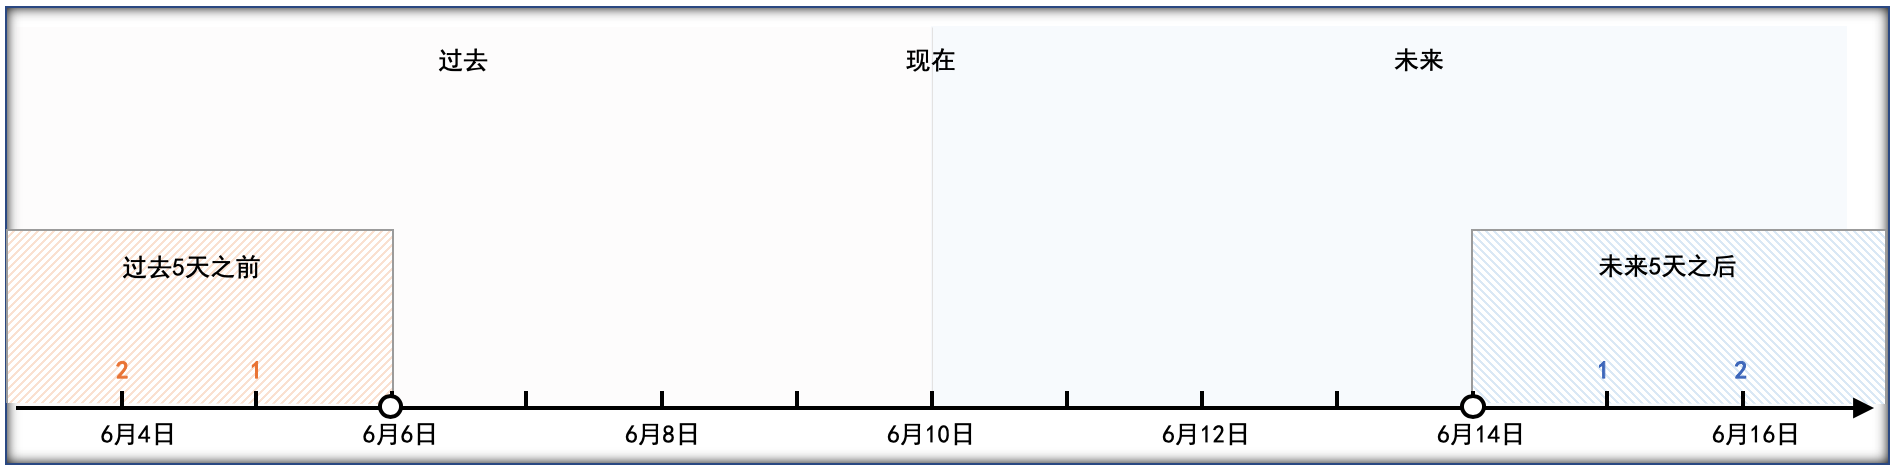
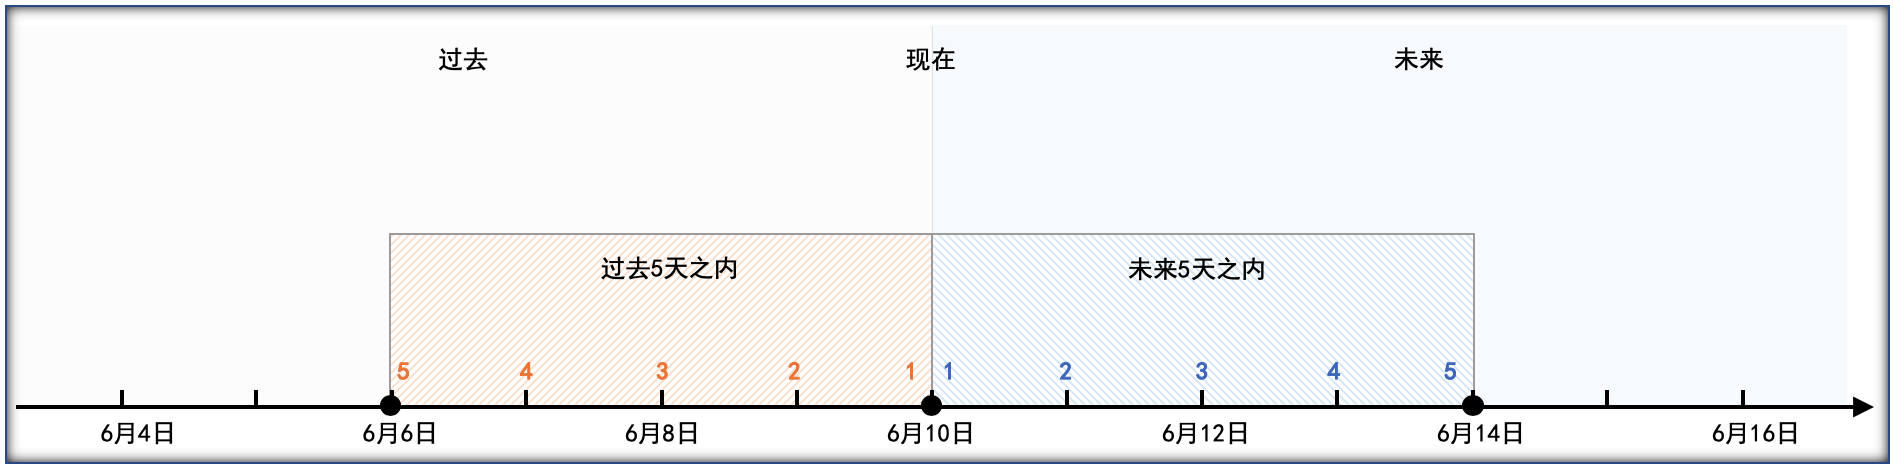
GitBook: [v20200700] one page and 4 assets modified

diff --git a/introduction/property-selector.md b/introduction/property-selector.md
@@ -283,89 +283,45 @@ step 3: 在3处选择筛选维度值
 >
 > 计算结果：2020年5月14日之后的所有日期，不包含2020年5月14日
 
-![&#x8FC7;&#x53BB;5&#x5929;&#x4E4B;&#x5185; &amp; &#x672A;&#x6765;5&#x5929;&#x4E4B;&#x5185;](../.gitbook/assets/image%20%28201%29.png)
+![&#x8FC7;&#x53BB;5&#x5929;&#x4E4B;&#x5185; &amp; &#x672A;&#x6765;5&#x5929;&#x4E4B;&#x5185;](../.gitbook/assets/image%20%28202%29.png)
 
 ![&#x672A;&#x6765;5&#x5929;&#x4E4B;&#x524D; &amp; &#x672A;&#x6765;5&#x5929;&#x4E4B;&#x540E;](../.gitbook/assets/image%20%28200%29.png)
 
-**相对区间**
-
-
-
-
-
-
-
-
-
-
-
-
-
-
-
-
-
-
-
-
-
-
-
-
-
-相对现在在过去n天之前：表示无穷小时间点到当前日期减n天，即 \(无穷小时间 , 当前日期 - n\)
-
-> 如现在时间是5月5日，过去2天之前即为5月3日\(包含\)之前
-
-相对现在在过去n天之内：表示当前日期减n天到当前日期，即 \[当前日期 - n , 当前日期\]
-
-> 如现在时间是5月5日，过去2天之内即为5月3日\(包含\)到5月5日\(包含\)之间
-
-相对现在在未来n天之内：表示当前日期到当前日期加n天，即 \[当前日期 , 当前日期 + n\]
-
-> 如现在时间是5月5日，未来2天之内即为5月5日\(包含\)到5月7日\(包含\)之间
-
-相对现在在未来n天之后：表示当前日期加n天到无穷大时间，即 \[当前日期 + n , 无穷大时间\)
-
-> 如相对时间是5月5日，未来2天之后即为5月7日\(包含\)之后
-
-> 注：输入值为正整数 1,2,3,4 ...
+{% hint style="warning" %}
+注：N = 1, 2, 3, 4 ... \( 正整数 \)
+{% endhint %}
 
 **相对区间**
 
-![&#x76F8;&#x5BF9;&#x533A;&#x95F4;](../.gitbook/assets/image%20%2814%29.png)
+![&#x65E5;&#x671F;&#x7B5B;&#x9009;&#x6761;&#x4EF6; - &#x76F8;&#x5BF9;&#x533A;&#x95F4;](../.gitbook/assets/image%20%28203%29.png)
 
-相对区间在过去m天至过去n天之内：表示当前日期减m天到当前日期减n天之间，即 \[当前日期 - m , 当前日期 - n\]
+在过去M天至过去N天之内：表示 当前日期 - M + 1 天\(包含\)至 当前日期 - N + 1 天\(包含\) 之间的所有日期
 
-> 如现在时间是5月5日，过去3天至过去1天之内即为5月2日\(包含\)至5月4日\(包含\)之间
+> 当前日期：2020年5月10日
+>
+> 筛选条件：过去3天至过去1天之内
+>
+> 计算结果：2020年5月8日至2020年5月10日之间的所有日期，包含2020年5月8日和2020年5月10日
 
-相对区间在未来m天至未来n天之内：表示当前日期加m天到当前日期加n天之间，即 \[当前日期 + m , 当前日期 + n\]
+{% hint style="warning" %}
+即： \[ 当前日期 - M + 1 , 当前日期 - N + 1 \]
 
-> 如现在时间是5月5日，未来2天至未来4天之内即为5月7日\(包含\)至5月9日\(包含\)之间
+注：M, N = 1, 2, 3, 4 ... \( 正整数 \) 且 M &gt;= N
+{% endhint %}
 
-> 注：输入值为正整数 1,2,3,4 ...
+在未来M天至未来N天之内：表示 当前日期 - M + 1 天\(包含\)至 当前日期 - N + 1 天\(包含\) 之间的所有日期
 
-## 使用案例
+> 当前日期：2020年5月10日
+>
+> 筛选条件：未来3天至未来6天之内
+>
+> 计算结果：2020年5月12日至2020年5月15日之间的所有日期，包含2020年5月12日和2020年5月15日
 
-### 1. 会员到期用户运营
+{% hint style="warning" %}
+即： \[ 当前日期 - M + 1 , 当前日期 - N + 1 \]
 
-业务目标：会员续费率提升
+注：M, N = 1, 2, 3, 4 ... \( 正整数 \) 且 M &lt;= N
+{% endhint %}
 
-目标人群：高活跃会员 且 会员即将到期
-
-运营策略：支付订单后弹窗提醒会员续费（无优惠）
-
-筛选方法：
-
-1）相对时间，过去30天内活跃天数大于等于4
-
-> 平均一周访问一次
-
-2）相对时间，过去30天内订单支付数大于等于2
-
-> 高活跃用户
-
-3）相对区间，会员到期日在未来7天到14天之内
-
-> 会员即将到期
+![&#x8FC7;&#x53BB;3&#x5929;&#x81F3;&#x8FC7;&#x53BB;1&#x5929;&#x4E4B;&#x5185; &amp; &#x672A;&#x6765;3&#x5929;&#x81F3;&#x672A;&#x6765;6&#x5929;&#x4E4B;&#x5185;](../.gitbook/assets/image%20%28201%29.png)
 
